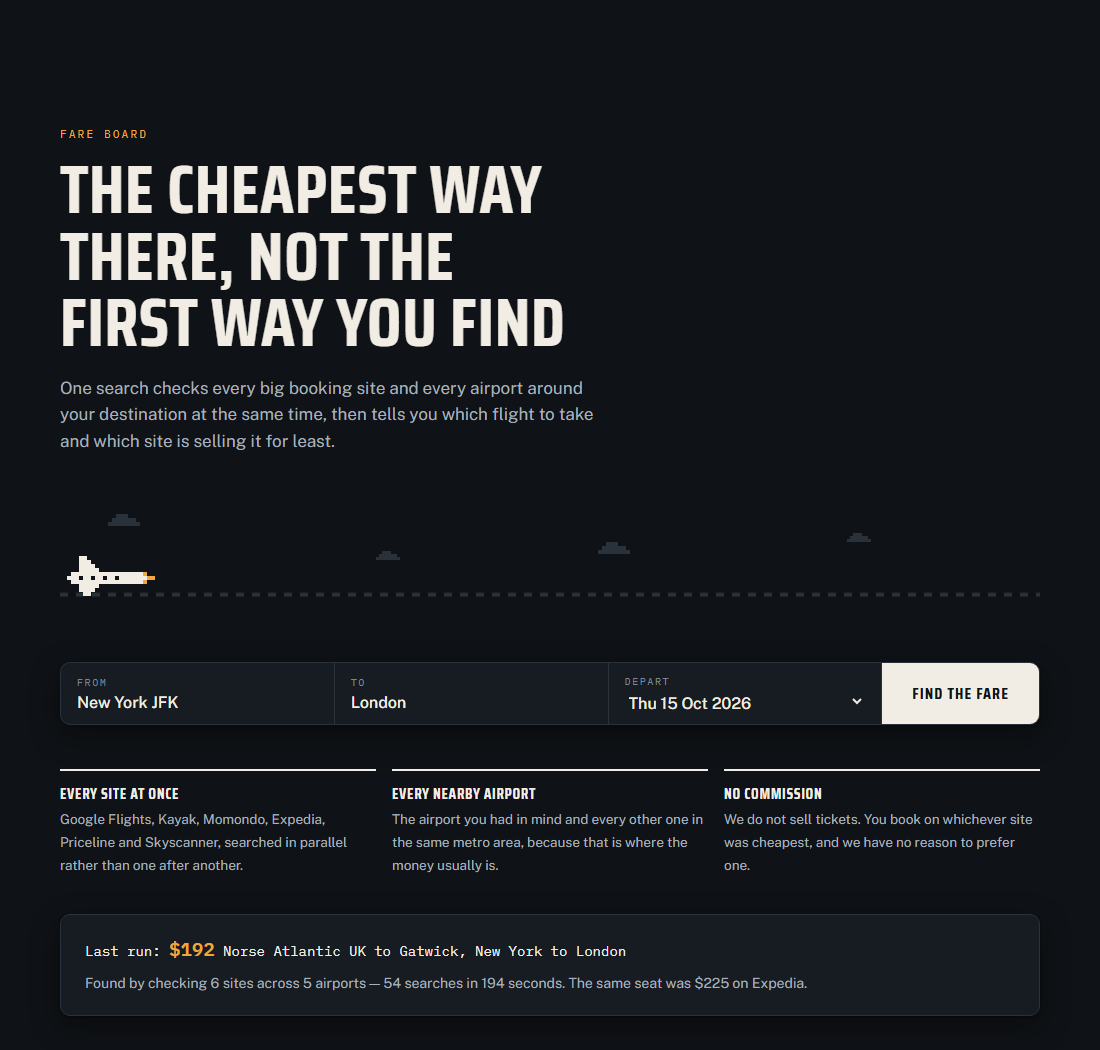
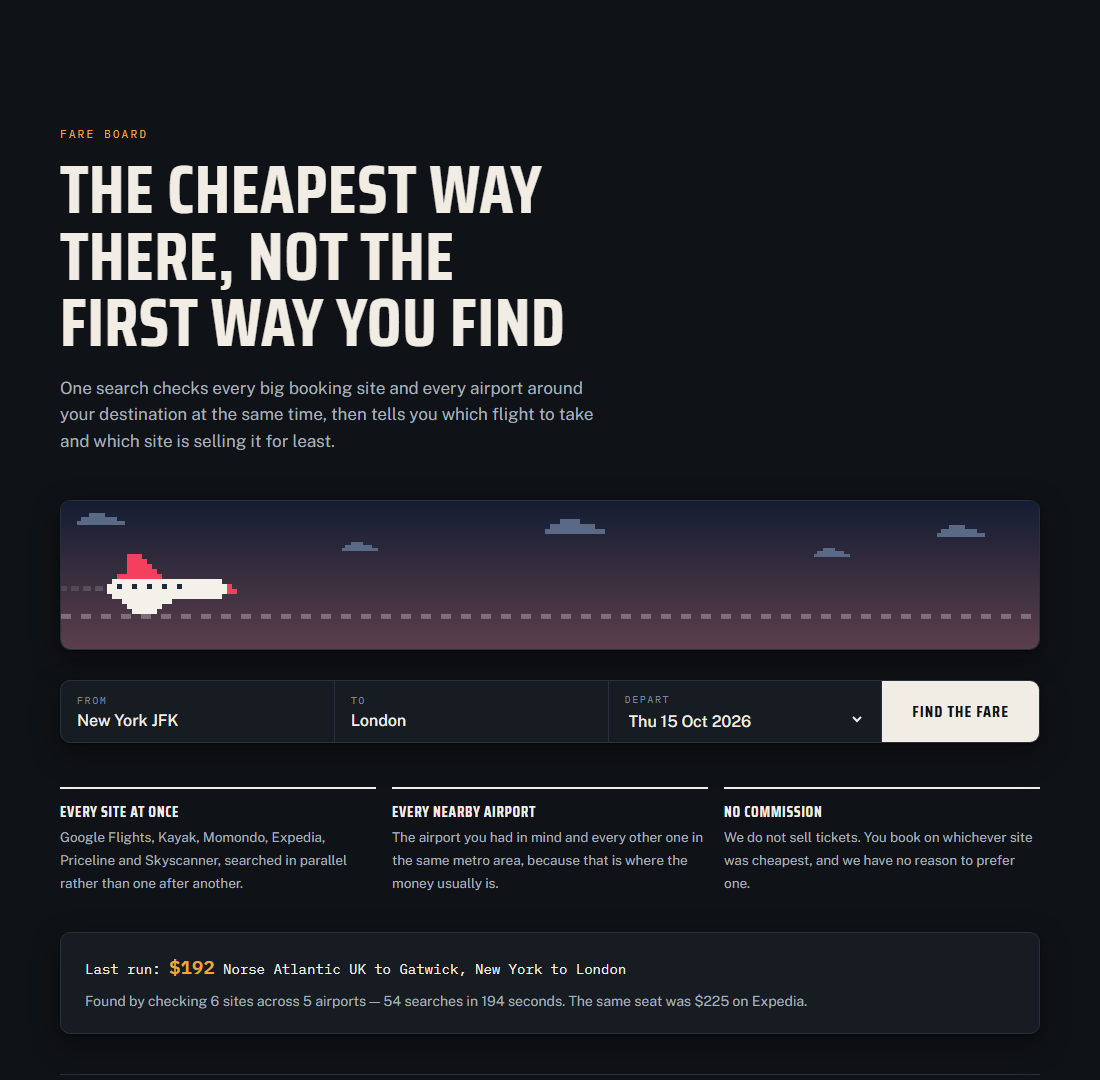
Paint the sky: a liveried pixel jet instead of a silhouette
Reworks the hero band on the suggestion that the plane should be a
coloured sprite rather than a monochrome shape. White fuselage, red tail
and nose, dark window glass, over a gradient sky with white pixel clouds,
a contrail and the dotted route line.

The band is now an illustration rather than a surface, so it carries its
own palette instead of borrowing the page's tokens -- but it paints two of
them explicitly: daylight, and the same sky at dusk for dark mode, picked
from the stamped data-theme when there is one and the OS preference when
there is not. A MutationObserver repaints it when the theme is toggled.

Sprite grew to 26x12 at 5px so the livery reads at a glance; the earlier
silhouette was too thin to tell it was an aircraft.

Claude-Session: https://claude.ai/code/session_01EMLBVdECybqViAWRes9Fjs

diff --git a/flight-price-map/trip.html b/flight-price-map/trip.html
@@ -210,8 +210,9 @@ footer code { font-family:"IBM Plex Mono", monospace; font-size:12.5px;
 .hero-p { font-size:17px; color:var(--ink-2); max-width:52ch; margin:18px 0 0; }
 /* The sky band. Canvas rather than SVG because it is a sprite blitter, and
    pixelated rendering so the chunky pixels stay chunky on retina screens. */
-.sky { display:block; width:100%; height:132px; margin-top:26px;
-       image-rendering:pixelated; }
+.sky { display:block; width:100%; height:150px; margin-top:26px;
+       border-radius:10px; border:1px solid var(--rule);
+       image-rendering:pixelated; box-shadow:var(--shadow); }
 
 form.finder {
   display:flex; flex-wrap:wrap; align-items:stretch; gap:1px; margin-top:30px;
@@ -447,30 +448,46 @@ form.finder {
   if (!canvas) return;
   const ctx = canvas.getContext("2d");
 
-  // '.' transparent, B body, A accent, W window.
+  // '.' sky, W fuselage, R livery, D window glass.
   const PLANE = [
-    "...BB...................",
-    "...BBB..................",
-    "...BBBB.................",
-    "...BBBBB................",
-    ".BBBBBBBBBBBBBBBBBBA....",
-    "BBBWBBWBBWBBWBBBBBBBAA..",
-    ".BBBBBBBBBBBBBBBBBBA....",
-    "...BBBBB................",
-    "...BBBB.................",
-    "....BB..................",
+    "....RRR...................",
+    "....RRRR..................",
+    "....RRRRR.................",
+    "....RRRRRR................",
+    "..RRRRRRRRR...............",
+    ".WWWWWWWWWWWWWWWWWWWWWW...",
+    "WWDWWDWWDWWDWWDWWWWWWWWWR.",
+    "WWWWWWWWWWWWWWWWWWWWWWWWRR",
+    ".WWWWWWWWWWWWWWWWWWWWWW...",
+    "...WWWWWWWWWW.............",
+    "....WWWWWWW...............",
+    ".....WWWWW................",
   ];
-  const CLOUD = ["..CCC...", ".CCCCCC.", "CCCCCCCC"];
+  const CLOUD = [
+    "...CCCC.....",
+    ".CCCCCCCCC..",
+    "CCCCCCCCCCCC",
+  ];
+
+  // The band commits to being a scene: a daylit sky, or the same sky at dusk.
+  // It is an illustration rather than a surface, so it carries its own colours
+  // instead of borrowing the page's -- but it paints both, explicitly.
+  const DAY = {sky: ["#8ecdf2", "#d3ecfd"], C: "#ffffff",
+               dot: "rgba(255,255,255,.7)", W: "#ffffff", R: "#e11d48",
+               D: "#334155", trail: "rgba(255,255,255,.85)"};
+  const DUSK = {sky: ["#141d33", "#5b3f4a"], C: "#5a6a86",
+                dot: "rgba(255,255,255,.28)", W: "#f4f1ea", R: "#f43f5e",
+                D: "#1e293b", trail: "rgba(255,255,255,.35)"};
 
   const PX = 5;
-  let W = 0, H = 0, colors = {}, clouds = [], t = 0, raf = null;
+  let W = 0, H = 0, pal = DAY, clouds = [], t = 0, raf = null;
   const still = matchMedia("(prefers-reduced-motion: reduce)");
+  const darkOS = matchMedia("(prefers-color-scheme: dark)");
 
-  function readColors() {
-    const css = getComputedStyle(document.documentElement);
-    const v = n => css.getPropertyValue(n).trim();
-    colors = {B: v("--ink"), A: v("--accent"), W: v("--ground"),
-              C: v("--rule"), dot: v("--rule")};
+  function isDark() {
+    const stamped = document.documentElement.getAttribute("data-theme");
+    if (stamped) return stamped === "dark";
+    return darkOS.matches;
   }
 
   function blit(rows, x, y, px) {
@@ -478,7 +495,7 @@ form.finder {
       for (let c = 0; c < rows[r].length; c++) {
         const ch = rows[r][c];
         if (ch === ".") continue;
-        ctx.fillStyle = colors[ch] || colors.B;
+        ctx.fillStyle = pal[ch] || pal.W;
         ctx.fillRect(Math.round(x + c * px), Math.round(y + r * px), px, px);
       }
     }
@@ -490,70 +507,66 @@ form.finder {
     canvas.width = W * dpr; canvas.height = H * dpr;
     ctx.setTransform(dpr, 0, 0, dpr, 0, 0);
     ctx.imageSmoothingEnabled = false;
-    clouds = [0.08, 0.34, 0.58, 0.82].map((frac, i) => ({
+    clouds = [0.06, 0.31, 0.55, 0.79, 0.93].map((frac, i) => ({
       x: frac * W,
-      y: 14 + ((i * 37) % 46),
-      px: i % 2 ? 3 : 4,
-      speed: i % 2 ? 0.18 : 0.32,
+      y: 12 + ((i * 29) % 52),
+      px: [4, 3, 5, 3, 4][i],
+      speed: [0.30, 0.16, 0.38, 0.14, 0.24][i],
     }));
   }
 
-  function frame() {
-    ctx.clearRect(0, 0, W, H);
-    const lane = H * 0.55;
+  function scene(planeX) {
+    const grad = ctx.createLinearGradient(0, 0, 0, H);
+    grad.addColorStop(0, pal.sky[0]);
+    grad.addColorStop(1, pal.sky[1]);
+    ctx.fillStyle = grad;
+    ctx.fillRect(0, 0, W, H);
 
-    // The route the plane is flying: a dotted line, like a boarding pass map.
-    ctx.fillStyle = colors.dot;
-    for (let x = 0; x < W; x += PX * 4) ctx.fillRect(x, lane + PX * 5, PX * 2, PX);
+    const lane = H * 0.56;
+    ctx.fillStyle = pal.dot;
+    for (let x = 0; x < W; x += PX * 4) ctx.fillRect(x, lane + PX * 6, PX * 2, PX);
 
-    for (const cloud of clouds) {
-      blit(CLOUD, cloud.x, cloud.y, cloud.px);
-      cloud.x -= cloud.speed;
-      if (cloud.x < -CLOUD[0].length * cloud.px) cloud.x = W + 20;
-    }
+    for (const cloud of clouds) blit(CLOUD, cloud.x, cloud.y, cloud.px);
 
-    const span = W + PLANE[0].length * PX + 80;
-    const x = ((t * 1.5) % span) - PLANE[0].length * PX - 40;
-    const bob = Math.sin(t / 42) * PX;
+    const bob = still.matches ? 0 : Math.sin(t / 44) * PX;
     const top = lane - PLANE.length * PX / 2 + bob;
-
-    // Contrail: a few squares off the tail, thinning out behind it.
-    for (let i = 1; i <= 7; i++) {
-      ctx.globalAlpha = 0.30 - i * 0.035;
-      ctx.fillStyle = colors.B;
-      ctx.fillRect(Math.round(x - i * PX * 2.2), Math.round(top + PX * 5),
-                   PX * 1.4, PX);
+    for (let i = 1; i <= 8; i++) {
+      ctx.globalAlpha = 0.5 - i * 0.055;
+      ctx.fillStyle = pal.trail;
+      ctx.fillRect(Math.round(planeX - i * PX * 2.4), Math.round(top + PX * 6.5),
+                   PX * 1.6, PX);
     }
     ctx.globalAlpha = 1;
-    blit(PLANE, x, top, PX);
+    blit(PLANE, planeX, top, PX);
+  }
 
+  function frame() {
+    const span = W + PLANE[0].length * PX + 90;
+    scene(((t * 1.6) % span) - PLANE[0].length * PX - 50);
+    for (const cloud of clouds) {
+      cloud.x -= cloud.speed;
+      if (cloud.x < -CLOUD[0].length * cloud.px) cloud.x = W + 24;
+    }
     t += 1;
     raf = requestAnimationFrame(frame);
   }
 
   function start() {
-    if (raf) cancelAnimationFrame(raf);
-    readColors(); size();
-    if (still.matches) {                 // one composed frame, no motion
-      t = 260; ctx.clearRect(0, 0, W, H);
-      const lane = H * 0.55;
-      ctx.fillStyle = colors.dot;
-      for (let x = 0; x < W; x += PX * 4) ctx.fillRect(x, lane + PX * 5, PX * 2, PX);
-      clouds.forEach(c => blit(CLOUD, c.x, c.y, c.px));
-      blit(PLANE, W * 0.42, lane - PLANE.length * PX / 2, PX);
-      return;
-    }
+    if (raf) { cancelAnimationFrame(raf); raf = null; }
+    pal = isDark() ? DUSK : DAY;
+    size();
+    if (still.matches) { scene(W * 0.4); return; }   // one composed frame
     raf = requestAnimationFrame(frame);
   }
 
   addEventListener("resize", start);
   still.addEventListener("change", start);
-  matchMedia("(prefers-color-scheme: dark)").addEventListener("change", start);
-  // Nothing to animate for a hidden tab, and nothing to animate on the
-  // results view either -- the canvas only exists on the landing page.
+  darkOS.addEventListener("change", start);
+  new MutationObserver(start).observe(document.documentElement,
+    {attributes: true, attributeFilter: ["data-theme"]});
   document.addEventListener("visibilitychange", () => {
     if (document.hidden && raf) { cancelAnimationFrame(raf); raf = null; }
-    else if (!document.hidden && !still.matches) start();
+    else if (!document.hidden) start();
   });
   start();
 })();

diff --git a/flight-price-map/trip.py b/flight-price-map/trip.py
@@ -43,8 +43,9 @@ EXTRA_CSS = """
 .hero-p { font-size:17px; color:var(--ink-2); max-width:52ch; margin:18px 0 0; }
 /* The sky band. Canvas rather than SVG because it is a sprite blitter, and
    pixelated rendering so the chunky pixels stay chunky on retina screens. */
-.sky { display:block; width:100%; height:132px; margin-top:26px;
-       image-rendering:pixelated; }
+.sky { display:block; width:100%; height:150px; margin-top:26px;
+       border-radius:10px; border:1px solid var(--rule);
+       image-rendering:pixelated; box-shadow:var(--shadow); }
 
 form.finder {
   display:flex; flex-wrap:wrap; align-items:stretch; gap:1px; margin-top:30px;
@@ -283,30 +284,46 @@ TEMPLATE = """__HEAD__
   if (!canvas) return;
   const ctx = canvas.getContext("2d");
 
-  // '.' transparent, B body, A accent, W window.
+  // '.' sky, W fuselage, R livery, D window glass.
   const PLANE = [
-    "...BB...................",
-    "...BBB..................",
-    "...BBBB.................",
-    "...BBBBB................",
-    ".BBBBBBBBBBBBBBBBBBA....",
-    "BBBWBBWBBWBBWBBBBBBBAA..",
-    ".BBBBBBBBBBBBBBBBBBA....",
-    "...BBBBB................",
-    "...BBBB.................",
-    "....BB..................",
+    "....RRR...................",
+    "....RRRR..................",
+    "....RRRRR.................",
+    "....RRRRRR................",
+    "..RRRRRRRRR...............",
+    ".WWWWWWWWWWWWWWWWWWWWWW...",
+    "WWDWWDWWDWWDWWDWWWWWWWWWR.",
+    "WWWWWWWWWWWWWWWWWWWWWWWWRR",
+    ".WWWWWWWWWWWWWWWWWWWWWW...",
+    "...WWWWWWWWWW.............",
+    "....WWWWWWW...............",
+    ".....WWWWW................",
   ];
-  const CLOUD = ["..CCC...", ".CCCCCC.", "CCCCCCCC"];
+  const CLOUD = [
+    "...CCCC.....",
+    ".CCCCCCCCC..",
+    "CCCCCCCCCCCC",
+  ];
+
+  // The band commits to being a scene: a daylit sky, or the same sky at dusk.
+  // It is an illustration rather than a surface, so it carries its own colours
+  // instead of borrowing the page's -- but it paints both, explicitly.
+  const DAY = {sky: ["#8ecdf2", "#d3ecfd"], C: "#ffffff",
+               dot: "rgba(255,255,255,.7)", W: "#ffffff", R: "#e11d48",
+               D: "#334155", trail: "rgba(255,255,255,.85)"};
+  const DUSK = {sky: ["#141d33", "#5b3f4a"], C: "#5a6a86",
+                dot: "rgba(255,255,255,.28)", W: "#f4f1ea", R: "#f43f5e",
+                D: "#1e293b", trail: "rgba(255,255,255,.35)"};
 
   const PX = 5;
-  let W = 0, H = 0, colors = {}, clouds = [], t = 0, raf = null;
+  let W = 0, H = 0, pal = DAY, clouds = [], t = 0, raf = null;
   const still = matchMedia("(prefers-reduced-motion: reduce)");
+  const darkOS = matchMedia("(prefers-color-scheme: dark)");
 
-  function readColors() {
-    const css = getComputedStyle(document.documentElement);
-    const v = n => css.getPropertyValue(n).trim();
-    colors = {B: v("--ink"), A: v("--accent"), W: v("--ground"),
-              C: v("--rule"), dot: v("--rule")};
+  function isDark() {
+    const stamped = document.documentElement.getAttribute("data-theme");
+    if (stamped) return stamped === "dark";
+    return darkOS.matches;
   }
 
   function blit(rows, x, y, px) {
@@ -314,7 +331,7 @@ TEMPLATE = """__HEAD__
       for (let c = 0; c < rows[r].length; c++) {
         const ch = rows[r][c];
         if (ch === ".") continue;
-        ctx.fillStyle = colors[ch] || colors.B;
+        ctx.fillStyle = pal[ch] || pal.W;
         ctx.fillRect(Math.round(x + c * px), Math.round(y + r * px), px, px);
       }
     }
@@ -326,70 +343,66 @@ TEMPLATE = """__HEAD__
     canvas.width = W * dpr; canvas.height = H * dpr;
     ctx.setTransform(dpr, 0, 0, dpr, 0, 0);
     ctx.imageSmoothingEnabled = false;
-    clouds = [0.08, 0.34, 0.58, 0.82].map((frac, i) => ({
+    clouds = [0.06, 0.31, 0.55, 0.79, 0.93].map((frac, i) => ({
       x: frac * W,
-      y: 14 + ((i * 37) % 46),
-      px: i % 2 ? 3 : 4,
-      speed: i % 2 ? 0.18 : 0.32,
+      y: 12 + ((i * 29) % 52),
+      px: [4, 3, 5, 3, 4][i],
+      speed: [0.30, 0.16, 0.38, 0.14, 0.24][i],
     }));
   }
 
-  function frame() {
-    ctx.clearRect(0, 0, W, H);
-    const lane = H * 0.55;
+  function scene(planeX) {
+    const grad = ctx.createLinearGradient(0, 0, 0, H);
+    grad.addColorStop(0, pal.sky[0]);
+    grad.addColorStop(1, pal.sky[1]);
+    ctx.fillStyle = grad;
+    ctx.fillRect(0, 0, W, H);
 
-    // The route the plane is flying: a dotted line, like a boarding pass map.
-    ctx.fillStyle = colors.dot;
-    for (let x = 0; x < W; x += PX * 4) ctx.fillRect(x, lane + PX * 5, PX * 2, PX);
+    const lane = H * 0.56;
+    ctx.fillStyle = pal.dot;
+    for (let x = 0; x < W; x += PX * 4) ctx.fillRect(x, lane + PX * 6, PX * 2, PX);
 
-    for (const cloud of clouds) {
-      blit(CLOUD, cloud.x, cloud.y, cloud.px);
-      cloud.x -= cloud.speed;
-      if (cloud.x < -CLOUD[0].length * cloud.px) cloud.x = W + 20;
-    }
+    for (const cloud of clouds) blit(CLOUD, cloud.x, cloud.y, cloud.px);
 
-    const span = W + PLANE[0].length * PX + 80;
-    const x = ((t * 1.5) % span) - PLANE[0].length * PX - 40;
-    const bob = Math.sin(t / 42) * PX;
+    const bob = still.matches ? 0 : Math.sin(t / 44) * PX;
     const top = lane - PLANE.length * PX / 2 + bob;
-
-    // Contrail: a few squares off the tail, thinning out behind it.
-    for (let i = 1; i <= 7; i++) {
-      ctx.globalAlpha = 0.30 - i * 0.035;
-      ctx.fillStyle = colors.B;
-      ctx.fillRect(Math.round(x - i * PX * 2.2), Math.round(top + PX * 5),
-                   PX * 1.4, PX);
+    for (let i = 1; i <= 8; i++) {
+      ctx.globalAlpha = 0.5 - i * 0.055;
+      ctx.fillStyle = pal.trail;
+      ctx.fillRect(Math.round(planeX - i * PX * 2.4), Math.round(top + PX * 6.5),
+                   PX * 1.6, PX);
     }
     ctx.globalAlpha = 1;
-    blit(PLANE, x, top, PX);
+    blit(PLANE, planeX, top, PX);
+  }
 
+  function frame() {
+    const span = W + PLANE[0].length * PX + 90;
+    scene(((t * 1.6) % span) - PLANE[0].length * PX - 50);
+    for (const cloud of clouds) {
+      cloud.x -= cloud.speed;
+      if (cloud.x < -CLOUD[0].length * cloud.px) cloud.x = W + 24;
+    }
     t += 1;
     raf = requestAnimationFrame(frame);
   }
 
   function start() {
-    if (raf) cancelAnimationFrame(raf);
-    readColors(); size();
-    if (still.matches) {                 // one composed frame, no motion
-      t = 260; ctx.clearRect(0, 0, W, H);
-      const lane = H * 0.55;
-      ctx.fillStyle = colors.dot;
-      for (let x = 0; x < W; x += PX * 4) ctx.fillRect(x, lane + PX * 5, PX * 2, PX);
-      clouds.forEach(c => blit(CLOUD, c.x, c.y, c.px));
-      blit(PLANE, W * 0.42, lane - PLANE.length * PX / 2, PX);
-      return;
-    }
+    if (raf) { cancelAnimationFrame(raf); raf = null; }
+    pal = isDark() ? DUSK : DAY;
+    size();
+    if (still.matches) { scene(W * 0.4); return; }   // one composed frame
     raf = requestAnimationFrame(frame);
   }
 
   addEventListener("resize", start);
   still.addEventListener("change", start);
-  matchMedia("(prefers-color-scheme: dark)").addEventListener("change", start);
-  // Nothing to animate for a hidden tab, and nothing to animate on the
-  // results view either -- the canvas only exists on the landing page.
+  darkOS.addEventListener("change", start);
+  new MutationObserver(start).observe(document.documentElement,
+    {attributes: true, attributeFilter: ["data-theme"]});
   document.addEventListener("visibilitychange", () => {
     if (document.hidden && raf) { cancelAnimationFrame(raf); raf = null; }
-    else if (!document.hidden && !still.matches) start();
+    else if (!document.hidden) start();
   });
   start();
 })();
